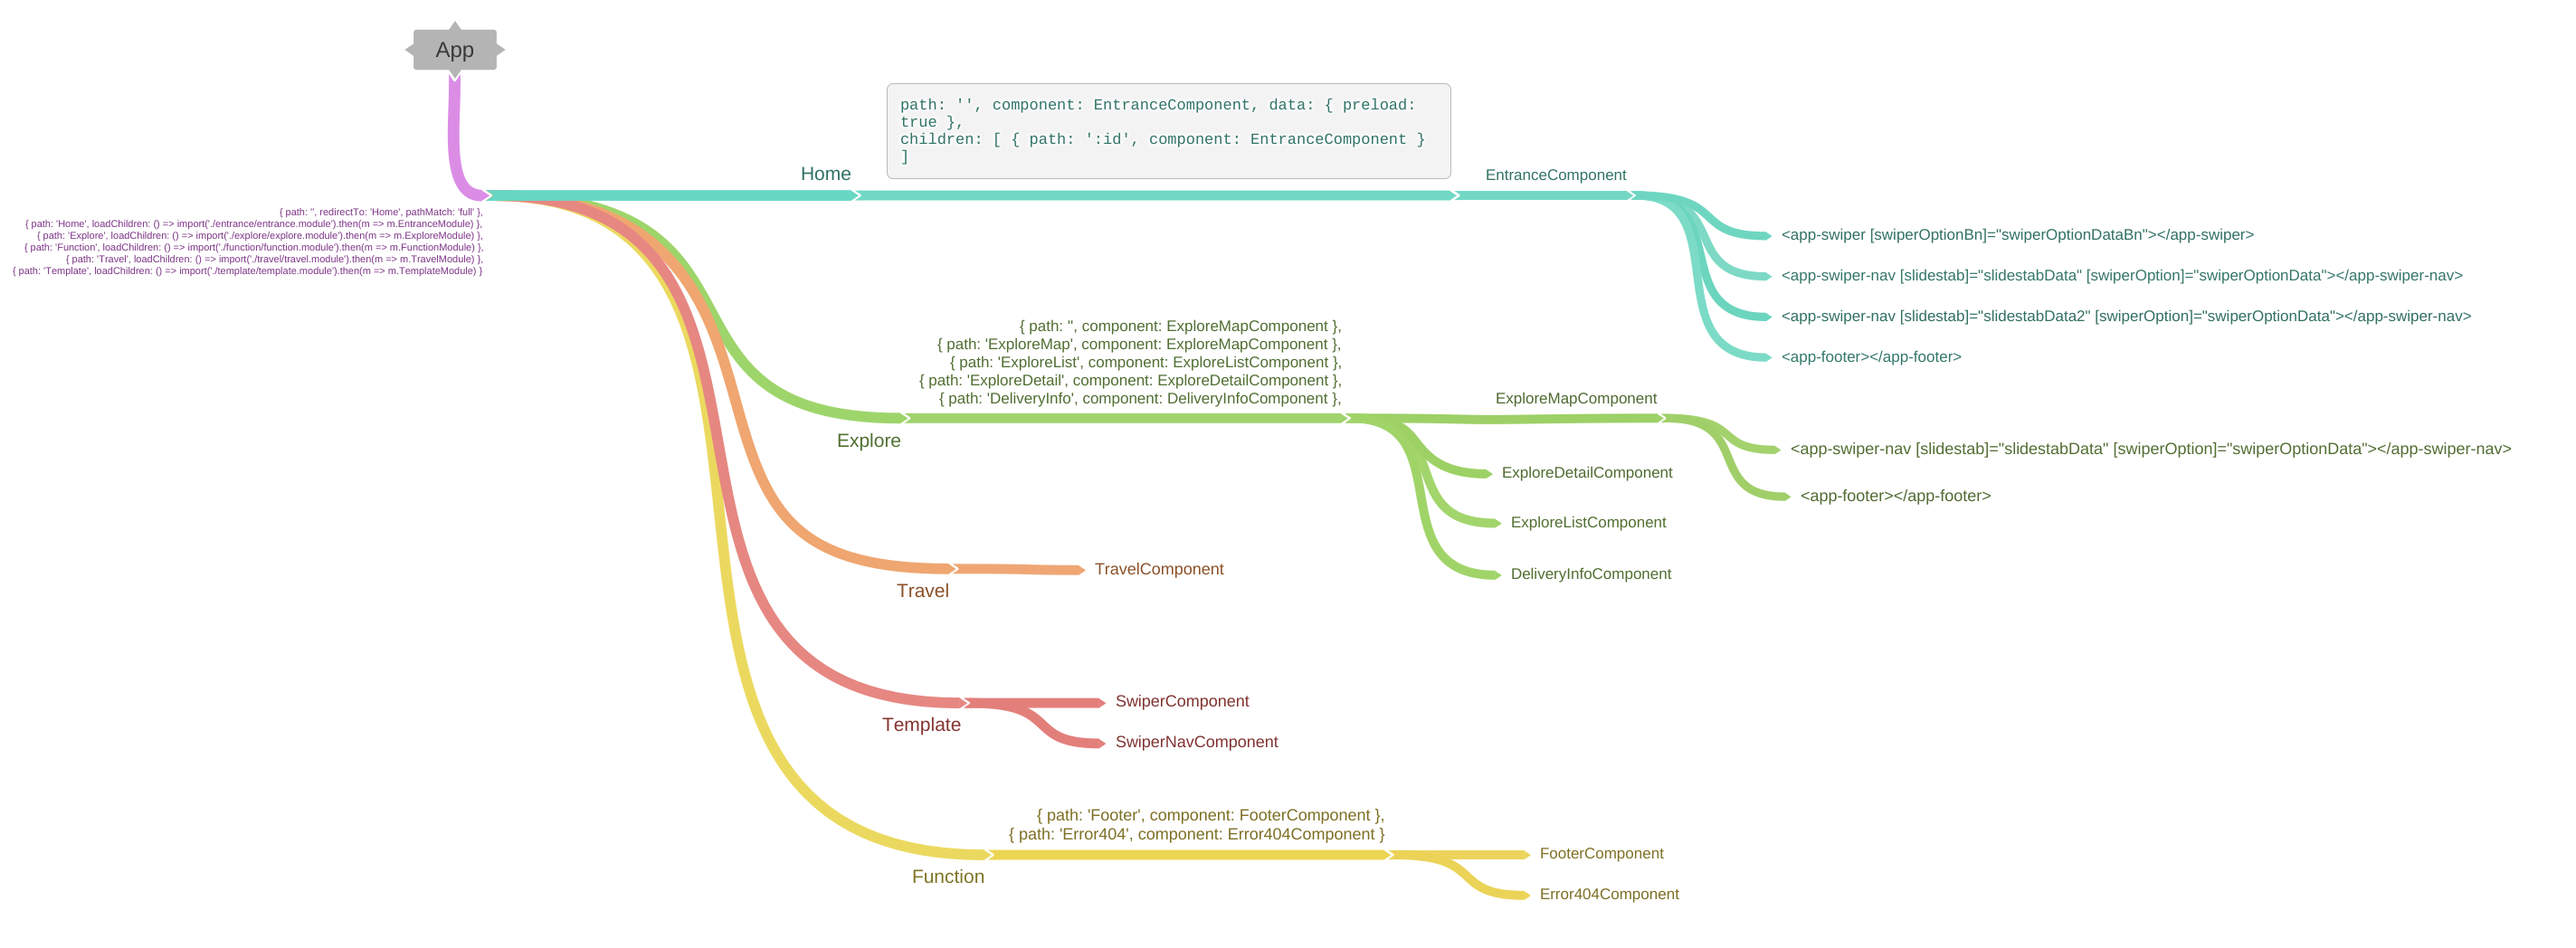
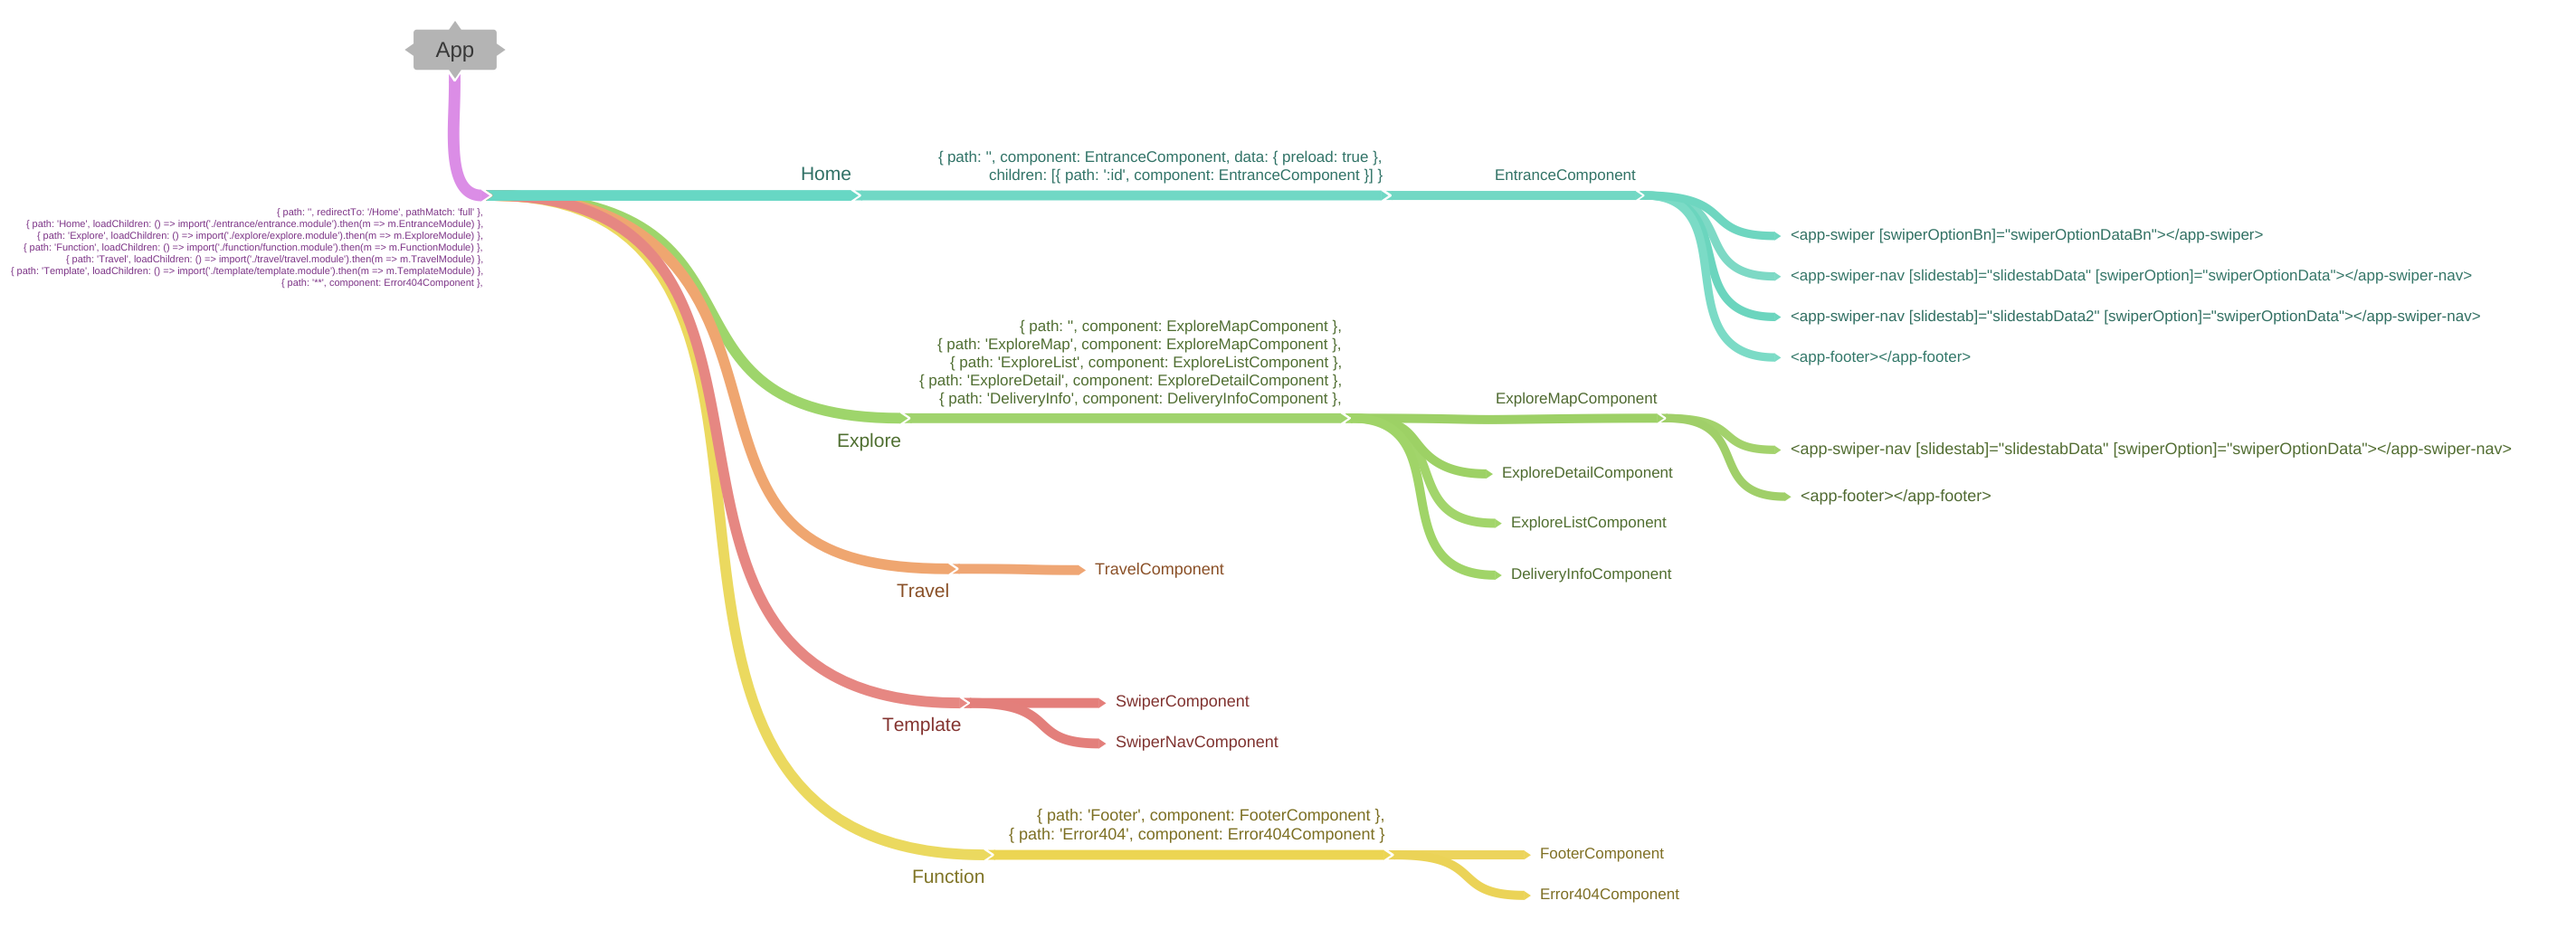
ngModule Demo

diff --git a/src/app/app-routing.module.ts b/src/app/app-routing.module.ts
@@ -1,13 +1,15 @@
 import { NgModule } from '@angular/core';
 import { Routes, RouterModule } from '@angular/router';
+import { Error404Component } from './function/error404/error404.component';
 
 const routes: Routes = [
-  { path: '', redirectTo: 'Home', pathMatch: 'full' },
+  { path: '', redirectTo: '/Home', pathMatch: 'full' },
   { path: 'Home', loadChildren: () => import('./entrance/entrance.module').then(m => m.EntranceModule) },
   { path: 'Explore', loadChildren: () => import('./explore/explore.module').then(m => m.ExploreModule) },
   { path: 'Function', loadChildren: () => import('./function/function.module').then(m => m.FunctionModule) },
   { path: 'Travel', loadChildren: () => import('./travel/travel.module').then(m => m.TravelModule) },
   { path: 'Template', loadChildren: () => import('./template/template.module').then(m => m.TemplateModule) },
+  { path: '**', component: Error404Component },
 ];
 
 @NgModule({

diff --git a/src/app/entrance/entrance.component.html b/src/app/entrance/entrance.component.html
@@ -1,5 +1,5 @@
 <p>[entrance.module] entrance works!</p>
-<img src="/assets/img/AppImg.png" alt="Root" class="img-fluid">
+<img src="https://wu-medoc.github.io/ngModule/assets/img/AppImg.png" alt="Root" class="img-fluid">
 <app-swiper [swiperOptionBn]="swiperOptionDataBn"></app-swiper>
 <app-swiper-nav [slidestab]="slidestabData" [swiperOption]="swiperOptionData"></app-swiper-nav>
 <app-swiper-nav [slidestab]="slidestabData2" [swiperOption]="swiperOptionData"></app-swiper-nav>

diff --git a/src/app/entrance/entrance-routing.module.ts b/src/app/entrance/entrance-routing.module.ts
@@ -3,11 +3,10 @@ import { NgModule } from '@angular/core';
 import { Routes, RouterModule } from '@angular/router';
 
 const routes: Routes = [
+  // { path: '', redirectTo: '/Home', pathMatch: 'full' },
   {
     path: '', component: EntranceComponent, data: { preload: true },
-    children: [
-      { path: ':id', component: EntranceComponent },
-    ]
+    children: [{ path: ':id', component: EntranceComponent }]
   },
 ];
 

diff --git a/src/app/app-path.ts b/src/app/app-path.ts
@@ -5,7 +5,7 @@ export interface appPath {
 }
 
 export const appPath = [
-  { title: 'Home', path: '/Home' },
+  { title: 'Home', path: '/Home/1' },
   { title: 'Travel', path: '/Travel' },
   { title: 'Explore', path: '/Explore' }
 ];
